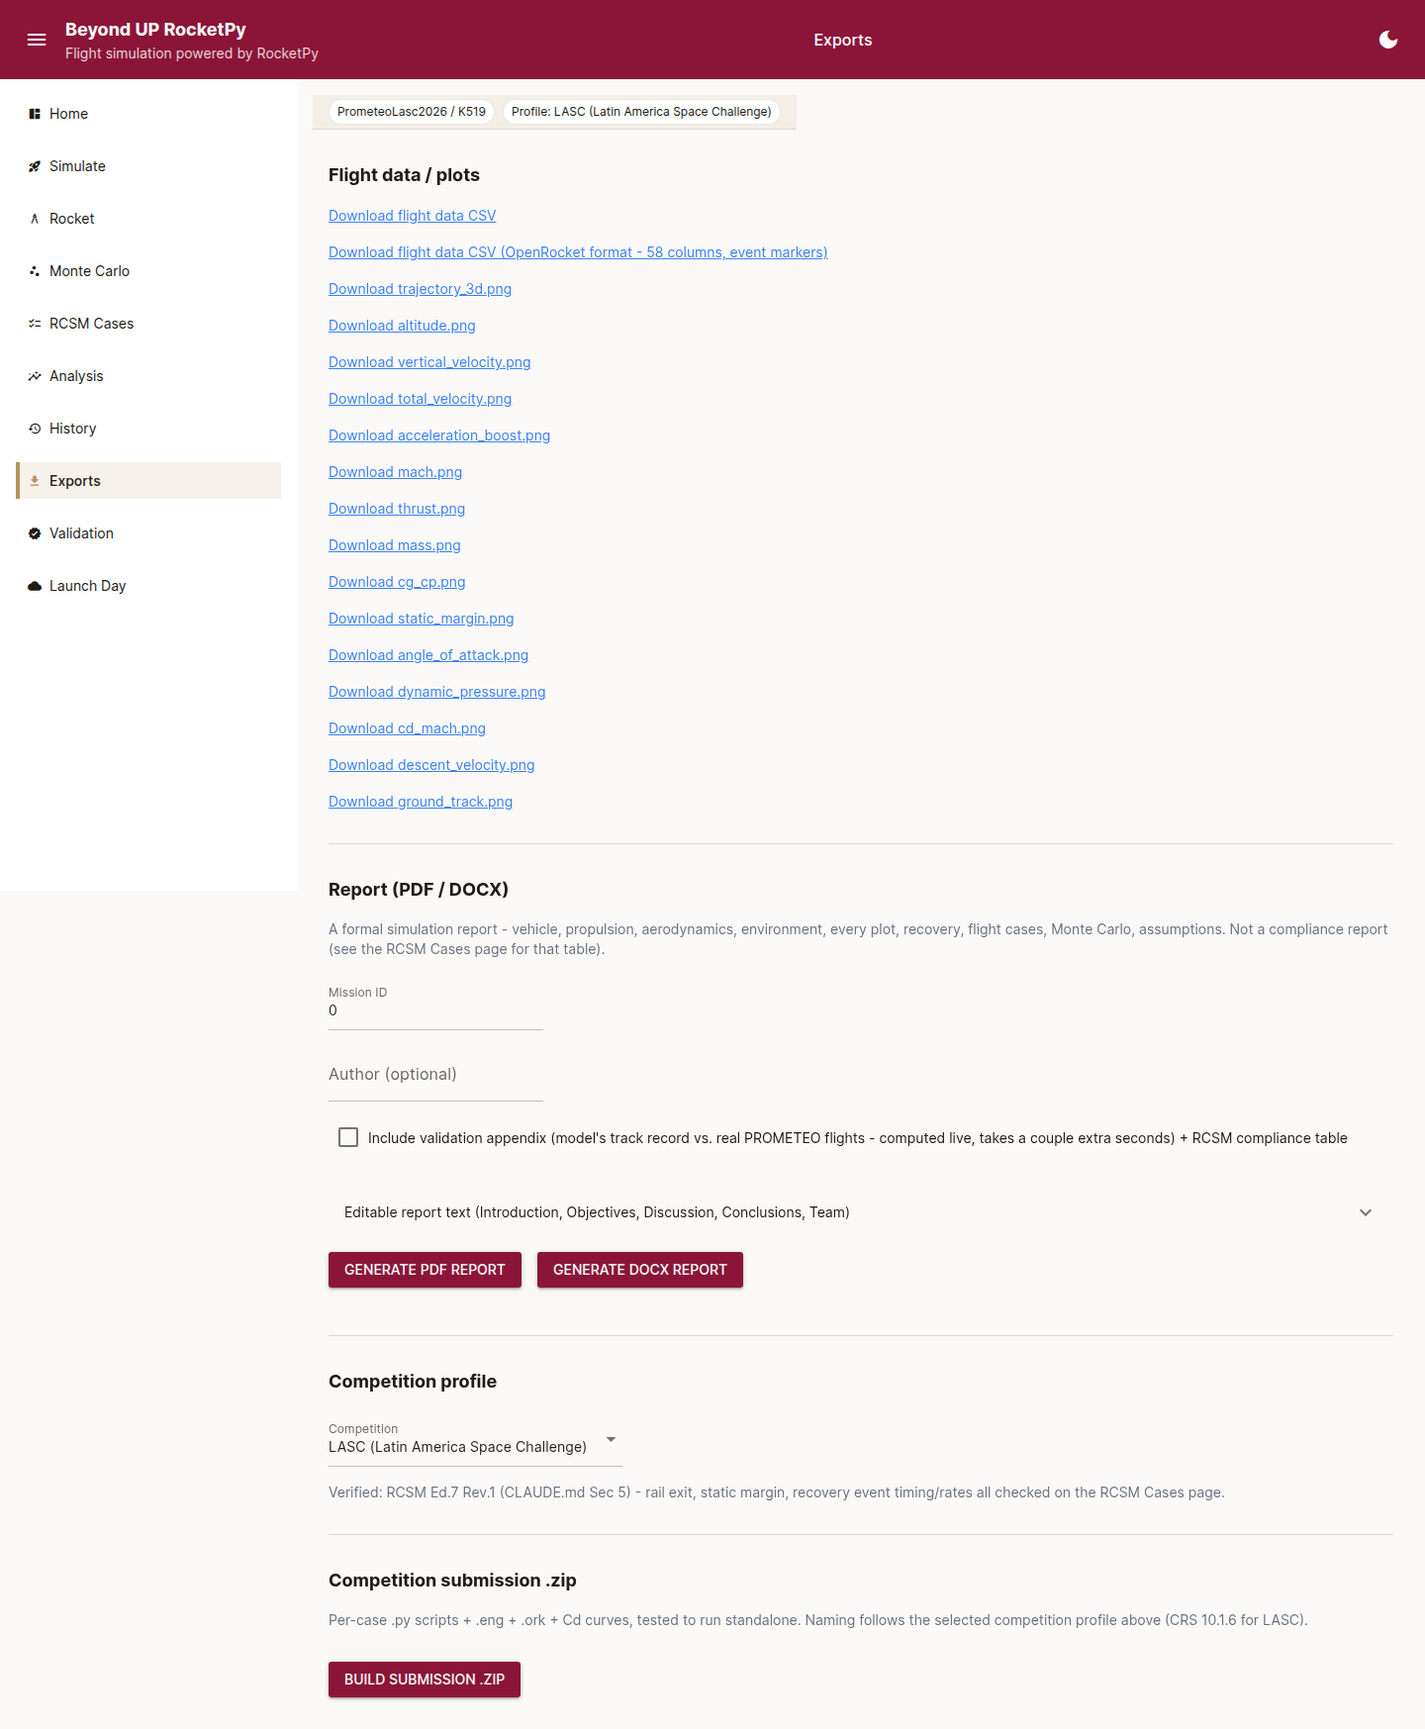
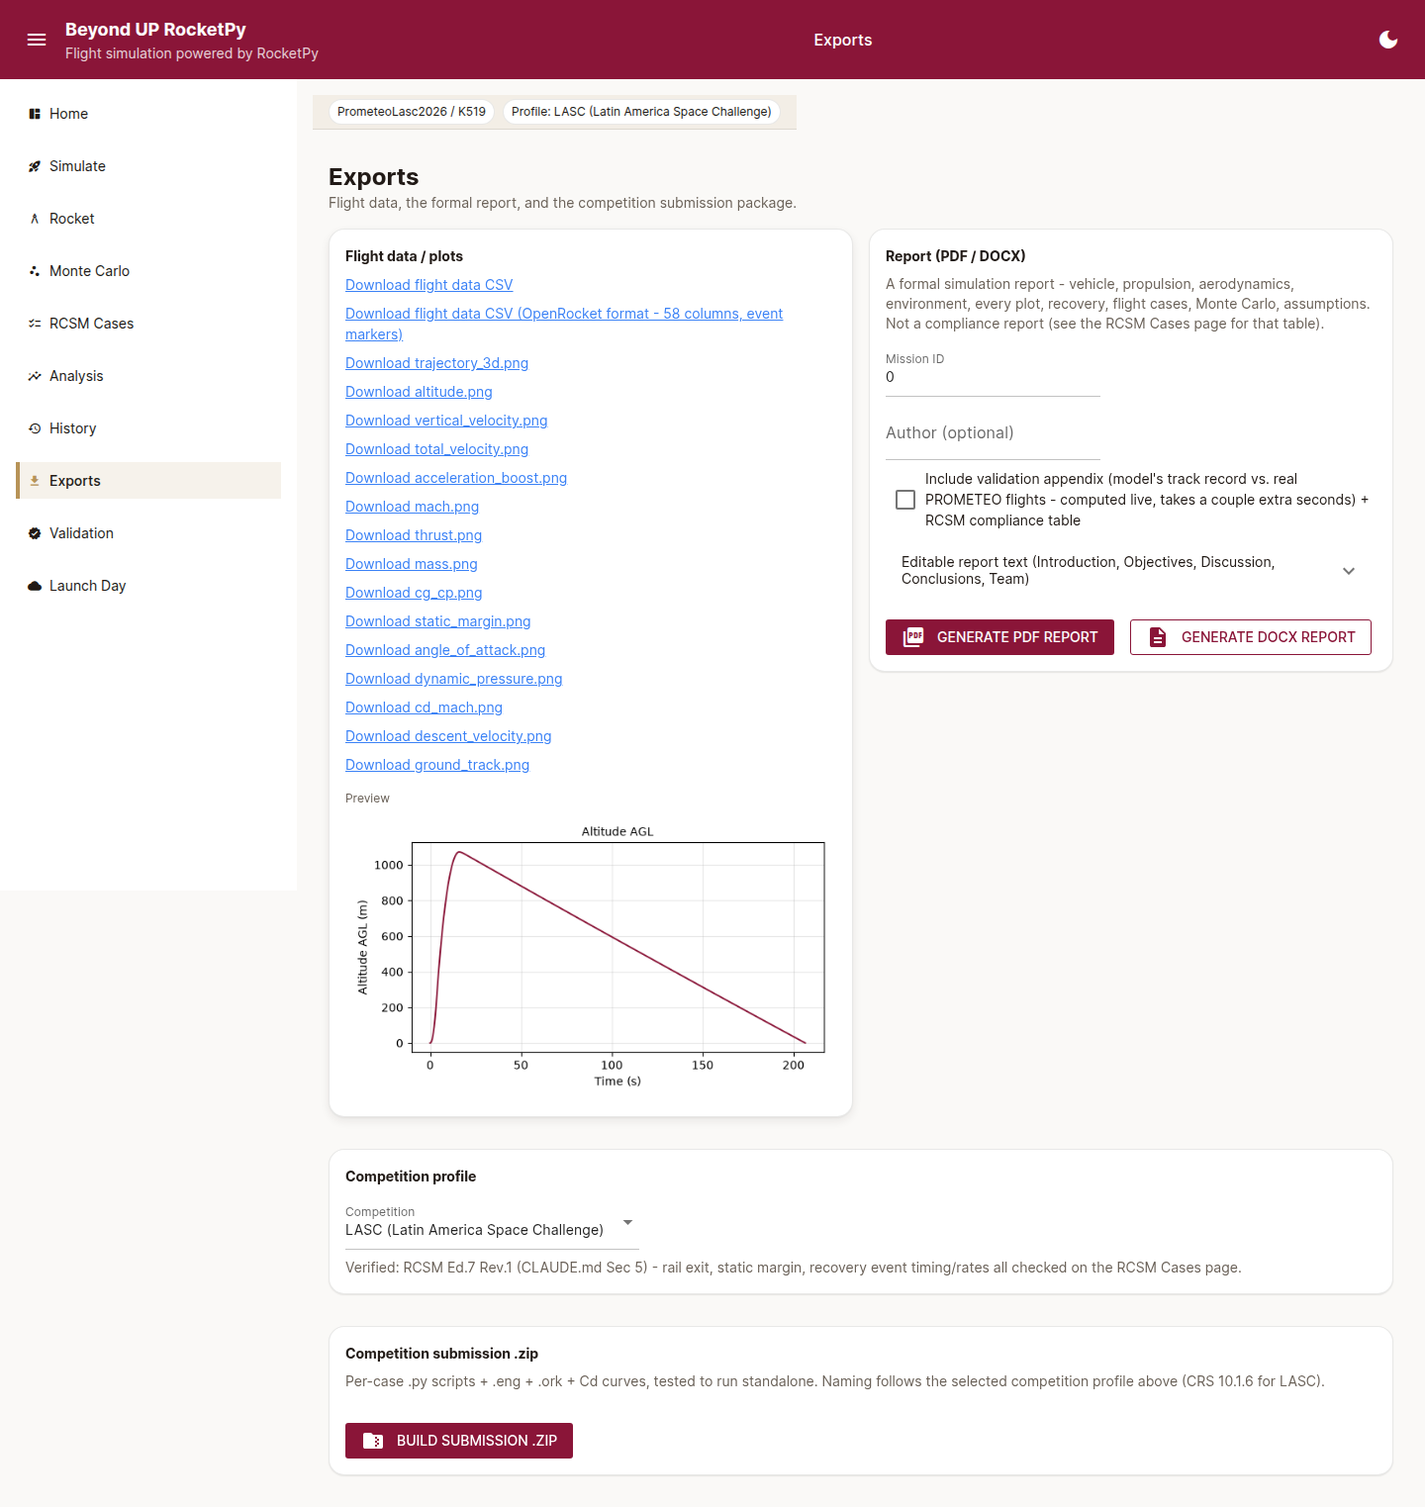
UI redesign: Exports page
- Cards per export type (Flight data/plots, Report PDF/DOCX,
  Competition profile, Competition submission .zip) instead of one long
  stacked column separated by <hr>s, per the redesign brief.
- Real previews, not just download links: the altitude plot thumbnail
  under Flight data; a live embedded PDF preview (browsers render PDF
  natively in an iframe) right after "Generate PDF report"; the
  submission .zip's own file listing shown right after it's built.
- Themed buttons throughout.

Full suite: test_phase0_e2e_full.py 3/3 green (includes the real
"Generate PDF report" click-through-the-app test).

Claude-Session: https://claude.ai/code/session_01RHCgNw4tm9jk7r5jJja457

diff --git a/bup_rocketpy/gui/pages/exports_page.py b/bup_rocketpy/gui/pages/exports_page.py
@@ -5,7 +5,7 @@ import os
 
 from nicegui import ui
 
-from bup_rocketpy.gui import layout, state
+from bup_rocketpy.gui import components, layout, state
 from bup_rocketpy import competition_profiles, lasc_package, rcsm_cases, report, run_history, translate
 
 REPO_ROOT = os.path.dirname(os.path.dirname(os.path.dirname(os.path.dirname(os.path.abspath(__file__)))))
@@ -17,133 +17,154 @@ OUTPUTS_DIR = os.path.join(os.getcwd(), "outputs", "gui_run")
 @ui.page("/exports")
 def exports_page():
     with layout.layout("Exports", current_path="/exports"):
+        components.page_header("Exports", "Flight data, the formal report, and the competition submission package.")
         if s["load_result"] is None or s["sim_result"] is None:
-            ui.label("Load files and click Simulate on the Simulate page first (no manual override needed - the default path works from the .ork alone).").classes("text-gray-500")
+            components.empty_state("download", "Load files and click Simulate on the Simulate page first (no manual override needed - the default path works from the .ork alone).", action_label="Go to Simulate", on_action=lambda: ui.navigate.to("/simulate"))
             return
 
-        if s["sim_result"] is not None:
-            ui.label("Flight data / plots").classes("text-lg font-bold")
-            if s["sim_result"].csv_path:
-                ui.link("Download flight data CSV", f"/outputs/{os.path.basename(s['sim_result'].csv_path)}")
-            if s["sim_result"].openrocket_csv_path:
-                ui.link("Download flight data CSV (OpenRocket format - 58 columns, event markers)", f"/outputs/{os.path.basename(s['sim_result'].openrocket_csv_path)}")
-            for name, path in s["sim_result"].plot_paths.items():
-                if path:
-                    ui.link(f"Download {name}.png", f"/outputs/{os.path.basename(path)}")
+        with ui.row().classes("gap-4 w-full items-start flex-wrap"):
+            with components.card(classes="flex-1 min-w-[320px]"):
+                ui.label("Flight data / plots").classes("font-bold")
+                if s["sim_result"].csv_path:
+                    ui.link("Download flight data CSV", f"/outputs/{os.path.basename(s['sim_result'].csv_path)}")
+                if s["sim_result"].openrocket_csv_path:
+                    ui.link("Download flight data CSV (OpenRocket format - 58 columns, event markers)", f"/outputs/{os.path.basename(s['sim_result'].openrocket_csv_path)}")
+                for name, path in s["sim_result"].plot_paths.items():
+                    if path:
+                        ui.link(f"Download {name}.png", f"/outputs/{os.path.basename(path)}")
+                # Preview: the altitude plot, the one every reader wants first.
+                altitude_path = s["sim_result"].plot_paths.get("altitude")
+                if altitude_path:
+                    ui.label("Preview").classes("text-xs mt-2").style("color: var(--bup-muted)")
+                    ui.image(altitude_path).classes("w-full rounded")
 
-        ui.separator().classes("my-4")
-        ui.label("Report (PDF / DOCX)").classes("text-lg font-bold")
-        ui.label("A formal simulation report - vehicle, propulsion, aerodynamics, environment, every plot, recovery, flight cases, Monte Carlo, assumptions. Not a compliance report (see the RCSM Cases page for that table).").classes("text-sm text-gray-500")
-        mission_id_input = ui.input(label="Mission ID", value=s["mission_id"])
-        author_input = ui.input(label="Author (optional)")
-        appendix_checkbox = ui.checkbox("Include validation appendix (model's track record vs. real PROMETEO flights - computed live, takes a couple extra seconds) + RCSM compliance table", value=False)
-        report_status = ui.label("")
+            with components.card(classes="flex-1 min-w-[320px]"):
+                ui.label("Report (PDF / DOCX)").classes("font-bold")
+                ui.label("A formal simulation report - vehicle, propulsion, aerodynamics, environment, every plot, recovery, flight cases, Monte Carlo, assumptions. Not a compliance report (see the RCSM Cases page for that table).").classes("text-sm").style("color: var(--bup-muted)")
+                mission_id_input = ui.input(label="Mission ID", value=s["mission_id"])
+                author_input = ui.input(label="Author (optional)")
+                appendix_checkbox = ui.checkbox("Include validation appendix (model's track record vs. real PROMETEO flights - computed live, takes a couple extra seconds) + RCSM compliance table", value=False)
+                report_status = ui.label("")
 
-        with ui.expansion("Editable report text (Introduction, Objectives, Discussion, Conclusions, Team)", value=False).classes("w-full"):
-            ui.label("Leave any of these blank to use an auto-generated default built from this run's own numbers. Saved with the mission (see History) so it survives a reopen.").classes("text-sm text-gray-500")
-            text_inputs = {}
-            for key, label in [
-                ("introduction", "Introduction"), ("objectives", "Objectives"),
-                ("discussion", "Discussion"), ("conclusions", "Conclusions"),
-                ("team", "Team block (page 1 header, right side)"),
-            ]:
-                text_inputs[key] = ui.textarea(label=label, value=s["report_text"].get(key, "")).classes("w-full")
+                with ui.expansion("Editable report text (Introduction, Objectives, Discussion, Conclusions, Team)", value=False).classes("w-full"):
+                    ui.label("Leave any of these blank to use an auto-generated default built from this run's own numbers. Saved with the mission (see History) so it survives a reopen.").classes("text-sm").style("color: var(--bup-muted)")
+                    text_inputs = {}
+                    for key, label in [
+                        ("introduction", "Introduction"), ("objectives", "Objectives"),
+                        ("discussion", "Discussion"), ("conclusions", "Conclusions"),
+                        ("team", "Team block (page 1 header, right side)"),
+                    ]:
+                        text_inputs[key] = ui.textarea(label=label, value=s["report_text"].get(key, "")).classes("w-full")
 
-            def _save_report_text():
-                s["report_text"] = {k: inp.value for k, inp in text_inputs.items()}
-                if s.get("current_run_id"):
-                    run_history.update_run_text(REPO_ROOT, s["current_run_id"], author=author_input.value, report_text=s["report_text"])
-                    ui.notify("Report text saved to this mission.", type="positive")
-                else:
-                    ui.notify("Report text saved for this session (no saved mission yet to attach it to - click Simulate first).", type="warning")
+                    def _save_report_text():
+                        s["report_text"] = {k: inp.value for k, inp in text_inputs.items()}
+                        if s.get("current_run_id"):
+                            run_history.update_run_text(REPO_ROOT, s["current_run_id"], author=author_input.value, report_text=s["report_text"])
+                            ui.notify("Report text saved to this mission.", type="positive")
+                        else:
+                            ui.notify("Report text saved for this session (no saved mission yet to attach it to - click Simulate first).", type="warning")
 
-            ui.button("Save text to mission", on_click=_save_report_text)
+                    components.button("Save text to mission", kind="secondary", icon="save", on_click=_save_report_text)
 
-        def build_report(fmt):
-            mission_id = mission_id_input.value
-            s["mission_id"] = mission_id
-            s["report_text"] = {k: inp.value for k, inp in text_inputs.items()}
-            if s.get("current_run_id"):
-                run_history.update_run_text(REPO_ROOT, s["current_run_id"], author=author_input.value, report_text=s["report_text"])
-            if s["case_results"] is None:
-                s["case_results"] = rcsm_cases.run_all_cases(
-                    s["load_result"].parsed_ork, s["load_result"].parsed_eng, s["load_result"].eng_path,
-                    s["load_result"].power_off_drag_path, s["load_result"].power_on_drag_path,
-                    s["dry_mass_kg"], s["dry_cg_m"],
-                    i_axial_override=s["dry_i_axial_kgm2"], i_transverse_override=s["dry_i_transverse_kgm2"],
+                report_preview_container = ui.column().classes("w-full mt-2")
+
+                def build_report(fmt):
+                    mission_id = mission_id_input.value
+                    s["mission_id"] = mission_id
+                    s["report_text"] = {k: inp.value for k, inp in text_inputs.items()}
+                    if s.get("current_run_id"):
+                        run_history.update_run_text(REPO_ROOT, s["current_run_id"], author=author_input.value, report_text=s["report_text"])
+                    if s["case_results"] is None:
+                        s["case_results"] = rcsm_cases.run_all_cases(
+                            s["load_result"].parsed_ork, s["load_result"].parsed_eng, s["load_result"].eng_path,
+                            s["load_result"].power_off_drag_path, s["load_result"].power_on_drag_path,
+                            s["dry_mass_kg"], s["dry_cg_m"],
+                            i_axial_override=s["dry_i_axial_kgm2"], i_transverse_override=s["dry_i_transverse_kgm2"],
+                        )
+
+                    # Reuses whatever the RCSM Cases page already computed (same
+                    # "ONE place" rule as dry_i_axial_kgm2 etc.) rather than
+                    # re-deriving a compliance table with its own guessed category -
+                    # if Diego hasn't run RCSM Cases yet, the appendix just omits
+                    # the table instead of guessing.
+                    compliance_rows = s["compliance_rows"] if appendix_checkbox.value else None
+
+                    data = report.build_report_data(
+                        mission_id, author_input.value, s["load_result"], s["sim_result"], s["case_results"],
+                        s["mc_result"], s["mc_uncertainties"], OUTPUTS_DIR,
+                        app_commit_hash=run_history.current_app_commit_hash(REPO_ROOT),
+                        include_appendix=appendix_checkbox.value,
+                        report_text=s["report_text"], competition_profile_key=s["competition_profile"],
+                        compliance_rows=compliance_rows,
+                    )
+                    path = os.path.join(OUTPUTS_DIR, f"report.{fmt}")
+                    if fmt == "docx":
+                        report.generate_docx(path, data)
+                    else:
+                        report.generate_pdf(path, data)
+                    report_status.set_text(f"Report written: {os.path.basename(path)}")
+                    report_preview_container.clear()
+                    with report_preview_container:
+                        ui.link(f"Download {os.path.basename(path)}", f"/outputs/{os.path.basename(path)}")
+                        if fmt == "pdf":
+                            # Chromium (and most browsers) render a PDF natively in
+                            # an iframe - a real preview, not just a download link.
+                            ui.html(f'<iframe src="/outputs/{os.path.basename(path)}" style="width:100%;height:500px;border:1px solid var(--bup-border);border-radius:var(--bup-radius-md);"></iframe>')
+
+                with ui.row():
+                    components.button("Generate PDF report", kind="primary", icon="picture_as_pdf", on_click=lambda: build_report("pdf"))
+                    components.button("Generate DOCX report", kind="secondary", icon="description", on_click=lambda: build_report("docx"))
+
+        with components.card(classes="w-full mt-4"):
+            ui.label("Competition profile").classes("font-bold")
+            profile_select = ui.select(
+                {k: p.display_name for k, p in competition_profiles.PROFILES.items()},
+                value=s["competition_profile"], label="Competition",
+            )
+            profile_status = ui.label("").classes("text-sm").style("color: var(--bup-muted)")
+
+            def _refresh_profile_status():
+                profile = competition_profiles.get_profile(profile_select.value)
+                s["competition_profile"] = profile_select.value
+                profile_status.set_text(profile.rules_status)
+
+            profile_select.on_value_change(lambda _: _refresh_profile_status())
+            _refresh_profile_status()
+
+        with components.card(classes="w-full mt-4"):
+            ui.label("Competition submission .zip").classes("font-bold")
+            ui.label("Per-case .py scripts + .eng + .ork + Cd curves, tested to run standalone. Naming follows the selected competition profile above (CRS 10.1.6 for LASC).").classes("text-sm").style("color: var(--bup-muted)")
+            zip_status = ui.label("")
+            zip_preview_container = ui.column().classes("w-full mt-2")
+
+            def build_zip():
+                profile = competition_profiles.get_profile(s["competition_profile"])
+                parsed = s["load_result"].parsed_ork
+                mass_est = translate.MassEstimate(s["dry_mass_kg"], s["dry_cg_m"], "UI export")
+                # 2026-09-27 review item 1: the LASC submission script must
+                # describe the EXACT SAME rocket Simulate/RCSM Cases already
+                # ran - use its actually-used inertia, not a fresh geometric
+                # re-derivation.
+                i_ax, i_tr = (s["dry_i_axial_kgm2"], s["dry_i_transverse_kgm2"]) if s["dry_i_axial_kgm2"] is not None else translate.estimate_dry_inertia(parsed, mass_est)
+                radius = next(t.radius for t in parsed.body_tubes if t.radius)
+                zip_path = os.path.join(OUTPUTS_DIR, f"Mission{mission_id_input.value}_{profile.key}.zip")
+                lasc_package.build_lasc_zip(
+                    zip_path, mission_id_input.value, parsed, s["load_result"].parsed_eng, s["load_result"].eng_path,
+                    s["ork_path"], s["load_result"].power_off_drag_path, s["load_result"].power_on_drag_path,
+                    s["dry_mass_kg"], s["dry_cg_m"], i_ax, i_tr, radius,
+                    cases=[("Ballistic", False), ("Nominal", True)],
+                    eng_filename=s["eng_filename"], ork_filename=s["ork_filename"],
+                    mission_id_template=profile.mission_id_template,
                 )
+                zip_status.set_text(f"Zip written: {os.path.basename(zip_path)}")
+                zip_preview_container.clear()
+                with zip_preview_container:
+                    ui.link("Download submission .zip", f"/outputs/{os.path.basename(zip_path)}")
+                    import zipfile
+                    with zipfile.ZipFile(zip_path) as zf:
+                        names = zf.namelist()
+                    ui.label(f"Preview: {len(names)} file(s) inside").classes("text-xs mt-1").style("color: var(--bup-muted)")
+                    for name in names:
+                        ui.label(f"  - {name}").classes("text-xs font-mono")
 
-            # Reuses whatever the RCSM Cases page already computed (same
-            # "ONE place" rule as dry_i_axial_kgm2 etc.) rather than
-            # re-deriving a compliance table with its own guessed category -
-            # if Diego hasn't run RCSM Cases yet, the appendix just omits
-            # the table instead of guessing.
-            compliance_rows = s["compliance_rows"] if appendix_checkbox.value else None
-
-            data = report.build_report_data(
-                mission_id, author_input.value, s["load_result"], s["sim_result"], s["case_results"],
-                s["mc_result"], s["mc_uncertainties"], OUTPUTS_DIR,
-                app_commit_hash=run_history.current_app_commit_hash(REPO_ROOT),
-                include_appendix=appendix_checkbox.value,
-                report_text=s["report_text"], competition_profile_key=s["competition_profile"],
-                compliance_rows=compliance_rows,
-            )
-            path = os.path.join(OUTPUTS_DIR, f"report.{fmt}")
-            if fmt == "docx":
-                report.generate_docx(path, data)
-            else:
-                report.generate_pdf(path, data)
-            report_status.set_text(f"Report written: {os.path.basename(path)}")
-            report_link_container.clear()
-            with report_link_container:
-                ui.link(f"Download {os.path.basename(path)}", f"/outputs/{os.path.basename(path)}")
-
-        with ui.row():
-            ui.button("Generate PDF report", on_click=lambda: build_report("pdf"))
-            ui.button("Generate DOCX report", on_click=lambda: build_report("docx"))
-        report_link_container = ui.column()
-
-        ui.separator().classes("my-4")
-        ui.label("Competition profile").classes("text-lg font-bold")
-        profile_select = ui.select(
-            {k: p.display_name for k, p in competition_profiles.PROFILES.items()},
-            value=s["competition_profile"], label="Competition",
-        )
-        profile_status = ui.label("").classes("text-sm text-gray-500")
-
-        def _refresh_profile_status():
-            profile = competition_profiles.get_profile(profile_select.value)
-            s["competition_profile"] = profile_select.value
-            profile_status.set_text(profile.rules_status)
-
-        profile_select.on_value_change(lambda _: _refresh_profile_status())
-        _refresh_profile_status()
-
-        ui.separator().classes("my-4")
-        ui.label("Competition submission .zip").classes("text-lg font-bold")
-        ui.label("Per-case .py scripts + .eng + .ork + Cd curves, tested to run standalone. Naming follows the selected competition profile above (CRS 10.1.6 for LASC).").classes("text-sm text-gray-500")
-        zip_status = ui.label("")
-
-        def build_zip():
-            profile = competition_profiles.get_profile(s["competition_profile"])
-            parsed = s["load_result"].parsed_ork
-            mass_est = translate.MassEstimate(s["dry_mass_kg"], s["dry_cg_m"], "UI export")
-            # 2026-09-27 review item 1: the LASC submission script must
-            # describe the EXACT SAME rocket Simulate/RCSM Cases already
-            # ran - use its actually-used inertia, not a fresh geometric
-            # re-derivation.
-            i_ax, i_tr = (s["dry_i_axial_kgm2"], s["dry_i_transverse_kgm2"]) if s["dry_i_axial_kgm2"] is not None else translate.estimate_dry_inertia(parsed, mass_est)
-            radius = next(t.radius for t in parsed.body_tubes if t.radius)
-            zip_path = os.path.join(OUTPUTS_DIR, f"Mission{mission_id_input.value}_{profile.key}.zip")
-            lasc_package.build_lasc_zip(
-                zip_path, mission_id_input.value, parsed, s["load_result"].parsed_eng, s["load_result"].eng_path,
-                s["ork_path"], s["load_result"].power_off_drag_path, s["load_result"].power_on_drag_path,
-                s["dry_mass_kg"], s["dry_cg_m"], i_ax, i_tr, radius,
-                cases=[("Ballistic", False), ("Nominal", True)],
-                eng_filename=s["eng_filename"], ork_filename=s["ork_filename"],
-                mission_id_template=profile.mission_id_template,
-            )
-            zip_status.set_text(f"Zip written: {os.path.basename(zip_path)}")
-            ui.link("Download submission .zip", f"/outputs/{os.path.basename(zip_path)}")
-
-        ui.button("Build submission .zip", on_click=build_zip)
+            components.button("Build submission .zip", kind="primary", icon="folder_zip", on_click=build_zip)
